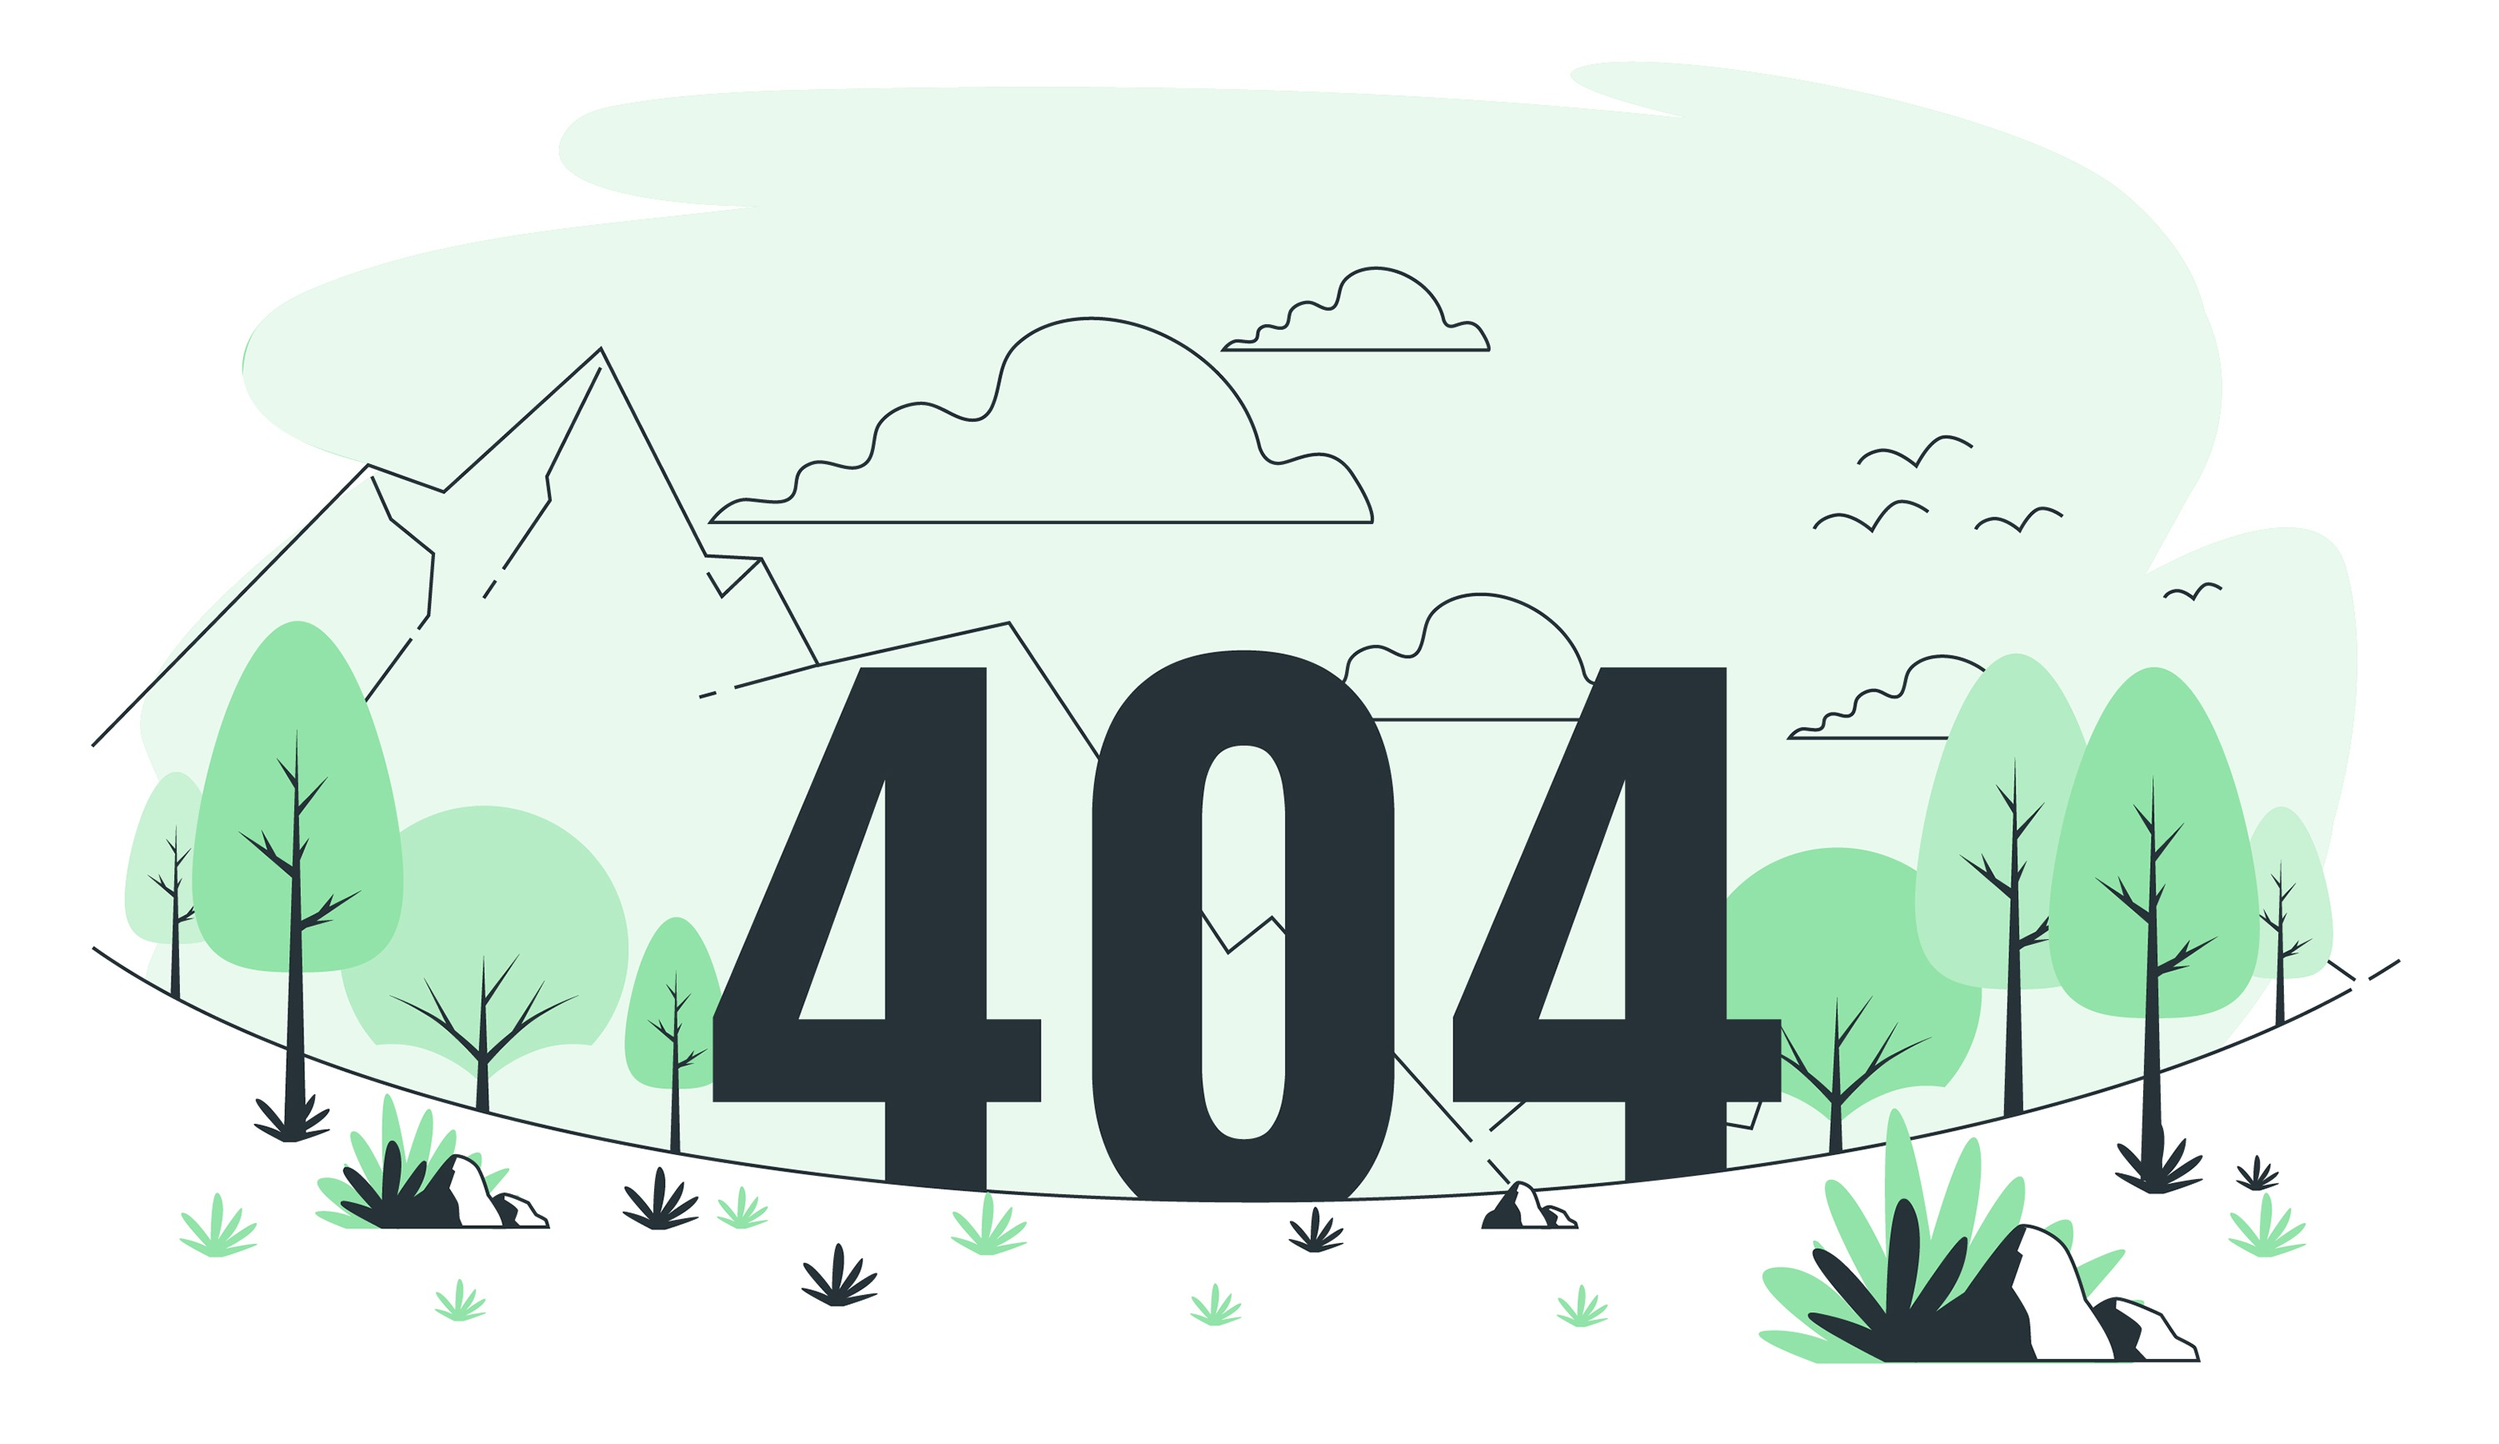
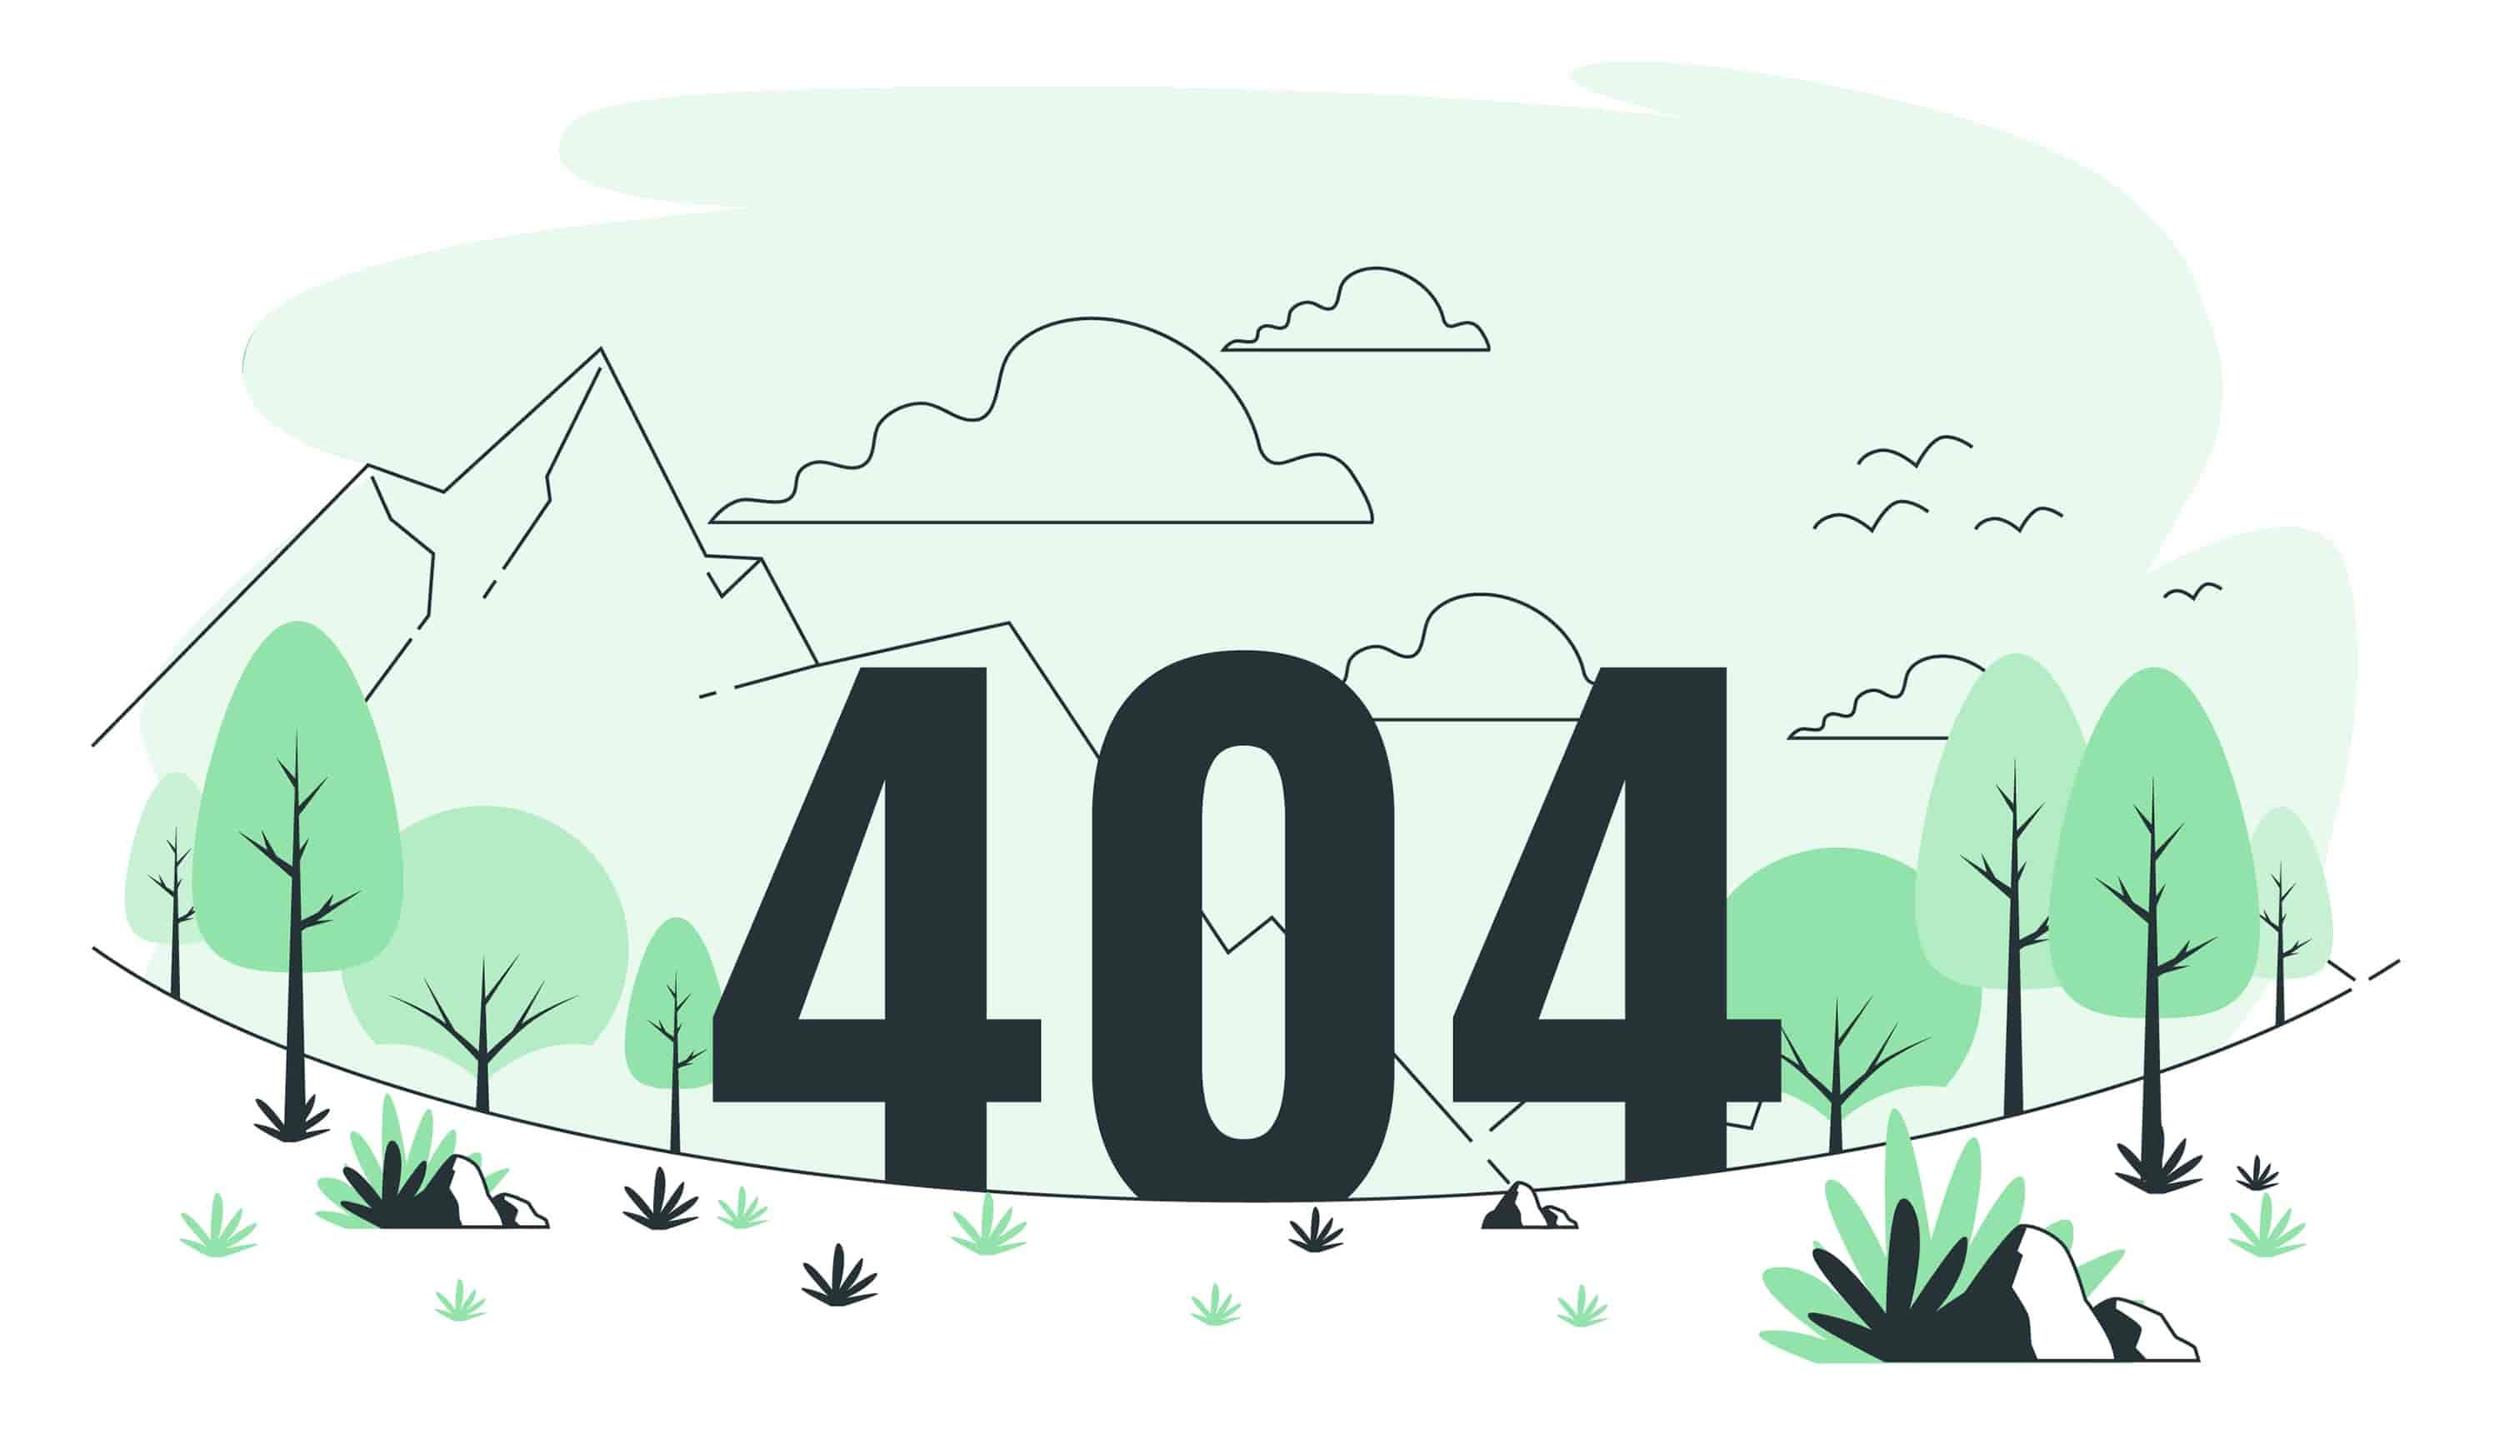
fix: fixed routes constant, optimized img

diff --git a/src/components/Main.tsx b/src/components/Main.tsx
@@ -14,8 +14,8 @@ export const Main: FC = () => {
     <main>
       <Routes>
         <Route index path={RoutesPath.WELCOME} element={<Welcome />} />
-        <Route path={RoutesPath.SIGNIN} element={<SignIn />} />
-        <Route path={RoutesPath.SIGNUP} element={<SignUp />} />
+        <Route path={RoutesPath.SIGN_IN} element={<SignIn />} />
+        <Route path={RoutesPath.SIGN_UP} element={<SignUp />} />
         <Route path={RoutesPath.BOARDS} element={<Boards />} />
         <Route path={RoutesPath.BOARD} element={<Board />} />
         <Route path={RoutesPath.PROFILE} element={<Profile />} />

diff --git a/src/constants/routes.ts b/src/constants/routes.ts
@@ -1,7 +1,7 @@
 export const enum RoutesPath {
   WELCOME = '/welcome',
-  SIGNIN = '/login',
-  SIGNUP = '/registration',
+  SIGN_IN = '/login',
+  SIGN_UP = '/registration',
   PROFILE = '/profile',
   BOARDS = '/',
   BOARD = '/board/:id',
